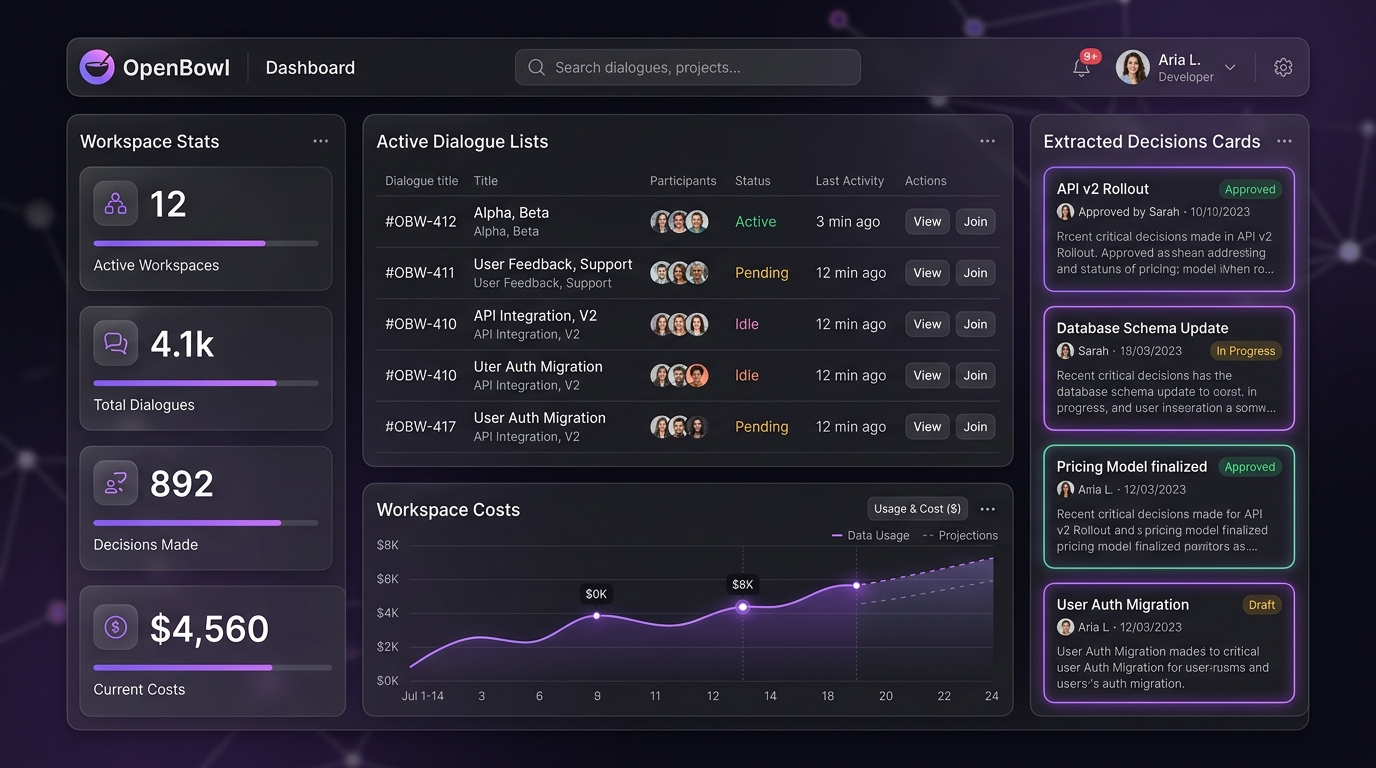
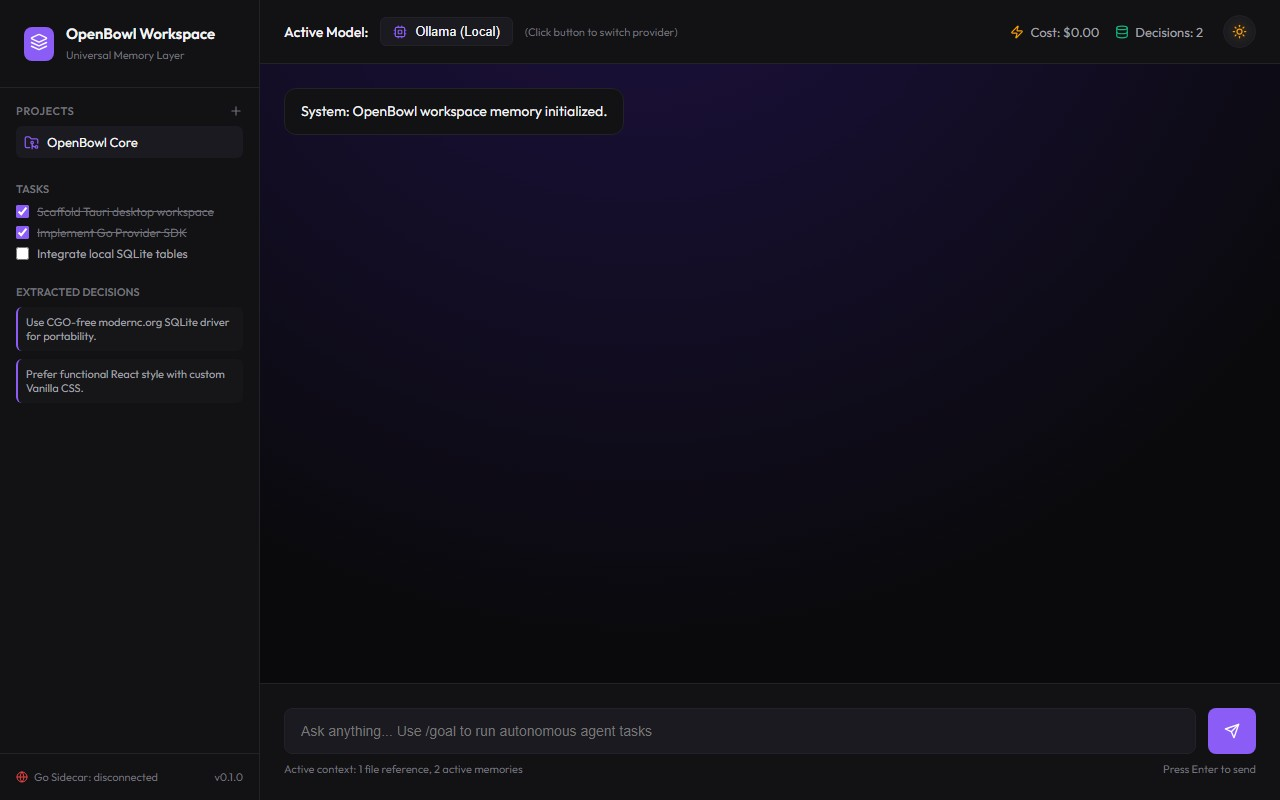
feat: add screenshot automation script for web dashboard and extension popup

diff --git a/scripts/take-screenshots.js b/scripts/take-screenshots.js
@@ -1,0 +1,111 @@
+const { chromium } = require("playwright");
+const { exec, spawn } = require("child_process");
+const path = require("path");
+const fs = require("fs");
+
+const rootDir = path.resolve(__dirname, "..");
+const webDistDir = path.join(rootDir, "apps/web/dist");
+const imagesDir = path.join(rootDir, "docs/images");
+
+// Ensure images directory exists
+if (!fs.existsSync(imagesDir)) {
+  fs.mkdirSync(imagesDir, { recursive: true });
+}
+
+async function run() {
+  console.log("Starting local preview server of the web dashboard...");
+
+  // Start vite preview on port 3000
+  const previewProcess = spawn(
+    "npm",
+    ["run", "preview", "--prefix", "apps/web", "--", "--port", "3000"],
+    {
+      cwd: rootDir,
+      shell: true,
+    },
+  );
+
+  // Wait 3 seconds for the server to spin up
+  await new Promise((r) => setTimeout(r, 3000));
+
+  console.log("Launching Playwright browser...");
+  const browser = await chromium.launch({ headless: true });
+  const context = await browser.newContext({
+    viewport: { width: 1280, height: 800 },
+  });
+  const page = await context.newPage();
+
+  try {
+    // 1. Screenshot Webapp Dashboard
+    console.log(
+      "Navigating to local Webapp Dashboard at http://localhost:3000...",
+    );
+    await page.goto("http://localhost:3000", { waitUntil: "networkidle" });
+    // Wait for elements to render
+    await page.waitForSelector(".app-container", { timeout: 5000 });
+
+    // Inject a delay to make sure UI is fully painted
+    await page.waitForTimeout(2000);
+
+    console.log("Capturing Webapp Dashboard screenshot...");
+    await page.screenshot({
+      path: path.join(imagesDir, "webapp_dashboard.jpg"),
+      type: "jpeg",
+      quality: 90,
+    });
+    console.log("Webapp Dashboard screenshot saved successfully!");
+
+    // 2. Screenshot Extension Popup HTML
+    console.log("Navigating to Extension Popup file...");
+    const popupFilePath =
+      "file:///" +
+      path.join(rootDir, "apps/extension/popup.html").replace(/\\/g, "/");
+
+    // Set smaller viewport size matching actual extension dimensions
+    await page.setViewportSize({ width: 360, height: 480 });
+    await page.goto(popupFilePath, { waitUntil: "load" });
+    await page.waitForTimeout(1000);
+
+    console.log("Capturing Extension Popup screenshot...");
+    await page.screenshot({
+      path: path.join(imagesDir, "extension_popup.jpg"),
+      type: "jpeg",
+      quality: 90,
+    });
+    console.log("Extension Popup screenshot saved successfully!");
+
+    // 3. Screenshot Context Viewer Section
+    console.log("Capturing Context Viewer Section...");
+    // Restore dashboard size and navigate to dashboard
+    await page.setViewportSize({ width: 1280, height: 800 });
+    await page.goto("http://localhost:3000", { waitUntil: "networkidle" });
+    await page.waitForTimeout(1000);
+
+    // Crop/Screenshot the sidebar context memories list area specifically
+    const sidebar = await page.$(".sidebar");
+    if (sidebar) {
+      console.log("Capturing Context Viewer sidebar clip...");
+      await sidebar.screenshot({
+        path: path.join(imagesDir, "context_viewer.jpg"),
+        type: "jpeg",
+        quality: 90,
+      });
+      console.log("Context Viewer screenshot saved successfully!");
+    }
+  } catch (error) {
+    console.error("Error during screenshot capture:", error);
+  } finally {
+    console.log("Closing browser and stopping preview server...");
+    await browser.close();
+    previewProcess.kill();
+    // Force kill node preview processes if left hanging
+    if (process.platform === "win32") {
+      exec("taskkill /f /im node.exe", () => {});
+    } else {
+      exec('pkill -f "vite preview"', () => {});
+    }
+    console.log("Done!");
+  }
+}
+
+run();